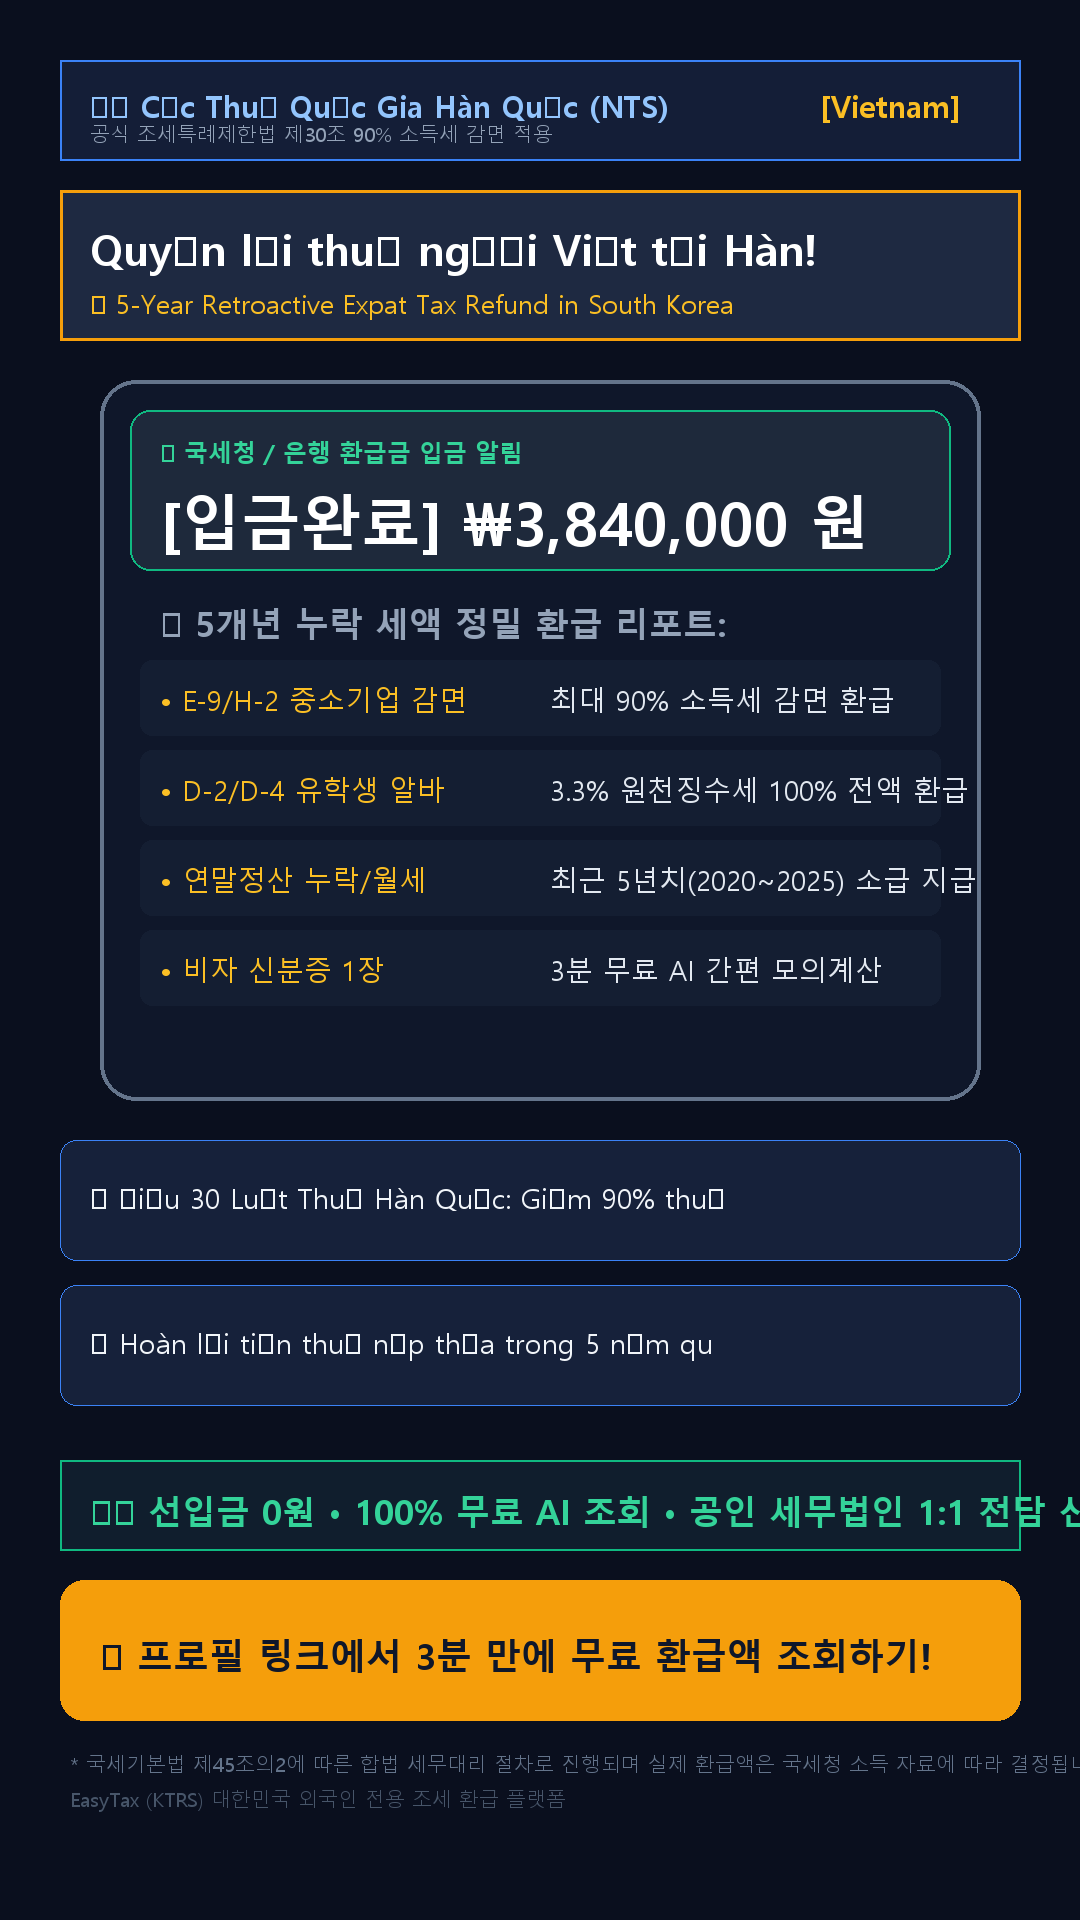
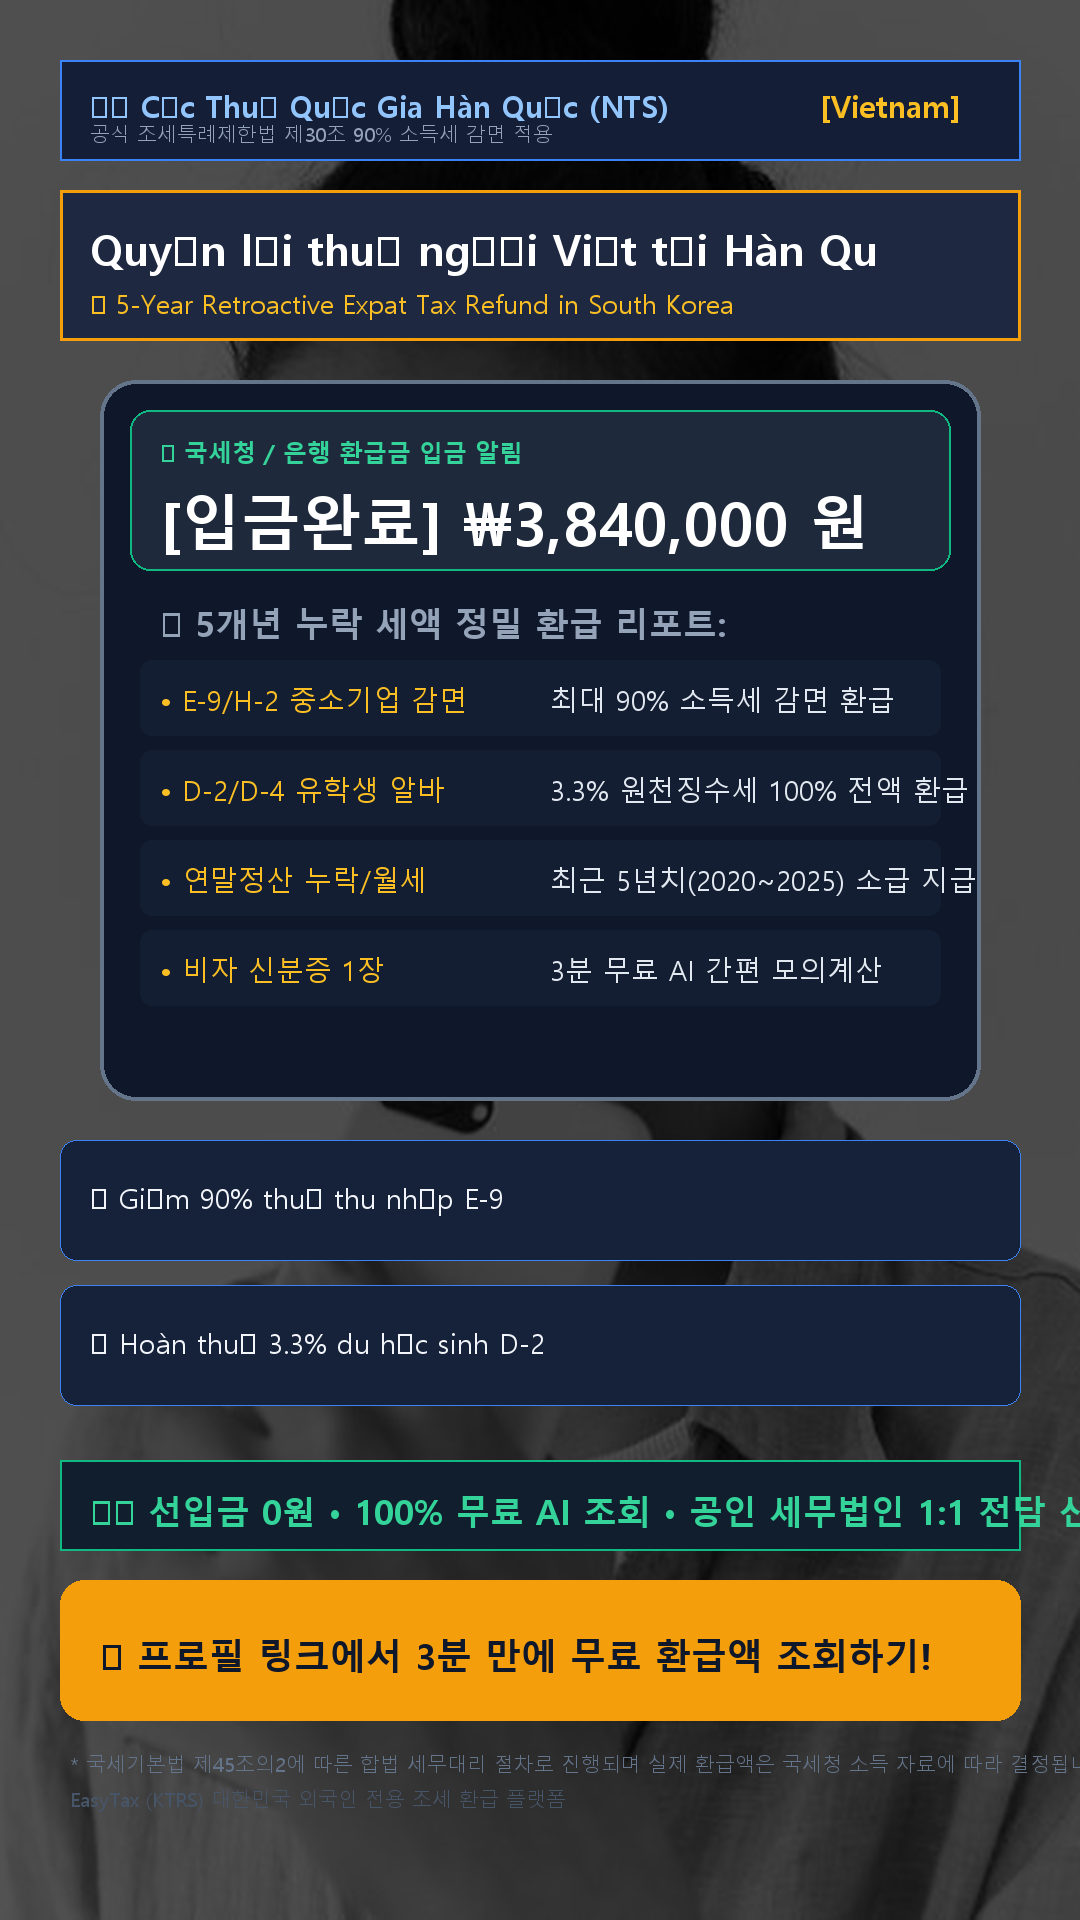
Feature: Integrate official Pexels Stock Photo API for live 17-language authentic expat workforce and smartphone mockup vertical backgrounds

diff --git a/kmarket-marketing-engine/core/pexels_client.py b/kmarket-marketing-engine/core/pexels_client.py
@@ -1,0 +1,175 @@
+"""
+PexelsClient - Pexels 공식 API 연동 17개국 고화질 세로형(9:16) 실사/목업 이미지 공급기
+- 언어/국가별 최적 실사 키워드 자동 매핑
+- 스마트폰 목업, 통장 확인, 실제 다국적 인물 고화질 사진 실시간 다운로드 & 캐싱
+"""
+
+import json
+import logging
+import urllib.request
+import io
+from pathlib import Path
+from typing import Optional, List, Dict, Any
+from PIL import Image
+from config import PEXELS_API_KEY, DATA_DIR
+
+logger = logging.getLogger("PexelsClient")
+
+# 🎯 17개국 언어별 Pexels 최적 검색 쿼리 매핑
+PEXELS_QUERIES_BY_LANG: Dict[str, List[str]] = {
+    "vi": [
+        "vietnamese person smartphone",
+        "southeast asian student phone",
+        "vietnamese worker smiling",
+        "asian person holding phone vertical"
+    ],
+    "uz": [
+        "central asian man smartphone",
+        "young male worker industrial",
+        "person holding smartphone table",
+        "office worker calculator"
+    ],
+    "zh": [
+        "asian student library smartphone",
+        "chinese young professional phone",
+        "asian person checking mobile banking",
+        "modern asian youth phone"
+    ],
+    "en": [
+        "international student campus smartphone",
+        "person checking bank app phone",
+        "phone screen mockup hand vertical",
+        "young professional laptop coffee"
+    ],
+    "mn": [
+        "asian young adult phone winter",
+        "person holding smartphone mockup",
+        "asian student modern casual",
+        "office desk calculator phone"
+    ],
+    "ru": [
+        "person checking finances phone",
+        "young professional office mobile",
+        "calculator tax documents table",
+        "hand holding smartphone vertical"
+    ],
+    "th": [
+        "thai young adult smartphone",
+        "southeast asian person mobile app",
+        "young worker factory smiling",
+        "phone screen vertical mockup"
+    ],
+    "id": [
+        "indonesian student smartphone",
+        "southeast asian worker mobile",
+        "person holding phone vertical desk",
+        "checking mobile banking phone"
+    ],
+    "ne": [
+        "south asian young man phone",
+        "worker factory smartphone",
+        "person holding phone vertical",
+        "calculating tax finance papers"
+    ],
+    "km": [
+        "southeast asian worker smiling phone",
+        "person holding smartphone vertical",
+        "young adult checking mobile screen"
+    ],
+    "tl": [
+        "filipino student smartphone",
+        "young professional smiling phone",
+        "hand holding phone screen mockup"
+    ],
+    "my": [
+        "southeast asian student mobile",
+        "young worker checking smartphone"
+    ],
+    "bn": [
+        "south asian researcher smartphone",
+        "young man checking phone banking"
+    ],
+    "ja": [
+        "japanese student smartphone clean",
+        "asian professional checking phone"
+    ],
+    "es": [
+        "hispanic student smartphone campus",
+        "young person holding phone vertical"
+    ],
+    "ar": [
+        "middle eastern student smartphone",
+        "person checking finances phone"
+    ],
+    "ko": [
+        "korean student smartphone mockup",
+        "checking mobile app smartphone hand",
+        "desk calculator finance documents"
+    ]
+}
+
+
+class PexelsClient:
+    """
+    📸 Pexels 고화질 세로형(9:16) 실사 사진 공급 클라이언트
+    """
+    def __init__(self, api_key: Optional[str] = None):
+        self.api_key = api_key or PEXELS_API_KEY
+        self.cache_dir = DATA_DIR / "pexels_cache"
+        self.cache_dir.mkdir(parents=True, exist_ok=True)
+        self._memory_cache: Dict[str, Image.Image] = {}
+
+    def fetch_portrait_photo(self, query: str = "person smartphone vertical", page: int = 1) -> Optional[Image.Image]:
+        """주어진 검색어로 Pexels에서 세로형(portrait) 고화질 사진 1장 다운로드"""
+        if not self.api_key:
+            logger.warning("Pexels API 키가 설정되지 않았습니다.")
+            return None
+
+        # 캐시 확인
+        cache_key = f"{query}_{page}".replace(" ", "_").lower()
+        if cache_key in self._memory_cache:
+            return self._memory_cache[cache_key].copy()
+
+        cached_file = self.cache_dir / f"{cache_key}.jpg"
+        if cached_file.exists():
+            try:
+                img = Image.open(cached_file).convert("RGB")
+                self._memory_cache[cache_key] = img
+                return img.copy()
+            except Exception:
+                pass
+
+        url = f"https://api.pexels.com/v1/search?query={urllib.parse.quote(query)}&orientation=portrait&per_page=5&page={page}"
+        req = urllib.request.Request(url, headers={
+            "Authorization": self.api_key,
+            "User-Agent": "UniversalExpatMarketingEngine/1.0"
+        })
+
+        try:
+            with urllib.request.urlopen(req, timeout=8) as resp:
+                data = json.loads(resp.read().decode("utf-8"))
+                photos = data.get("photos", [])
+                if photos:
+                    # 'large' 또는 'large2x' 고화질 URL 선택
+                    photo_url = photos[0].get("src", {}).get("large") or photos[0].get("src", {}).get("medium")
+                    if photo_url:
+                        img_req = urllib.request.Request(photo_url, headers={"User-Agent": "Mozilla/5.0"})
+                        with urllib.request.urlopen(img_req, timeout=10) as img_resp:
+                            img_bytes = img_resp.read()
+                            with open(cached_file, "wb") as f:
+                                f.write(img_bytes)
+                            img = Image.open(io.BytesIO(img_bytes)).convert("RGB")
+                            self._memory_cache[cache_key] = img
+                            logger.info(f"✅ Pexels 고화질 실사 로드 성공 [{query}]: {cached_file.name}")
+                            return img.copy()
+        except Exception as e:
+            logger.warning(f"Pexels API 호출 실패 ({query}): {e}")
+
+        return None
+
+    def fetch_photo_for_lang(self, lang: str = "vi", service_id: str = "easytax") -> Optional[Image.Image]:
+        """언어 및 서비스에 최적화된 고화질 Pexels 실사 사진 1장 획득"""
+        import random
+        queries = PEXELS_QUERIES_BY_LANG.get(lang, PEXELS_QUERIES_BY_LANG["en"])
+        query = random.choice(queries)
+        return self.fetch_portrait_photo(query=query, page=random.randint(1, 3))

diff --git a/kmarket-marketing-engine/core/visual_safety_engine.py b/kmarket-marketing-engine/core/visual_safety_engine.py
@@ -8,9 +8,9 @@ VisualSafetyEngine - AI 기괴함/환각 차단 & 17개국 인종/국적 일치 
 import logging
 import math
 from pathlib import Path
-from typing import Dict, Any, List, Optional
-from PIL import Image, ImageDraw, ImageFont
+from PIL import Image, ImageDraw, ImageFont, ImageEnhance
 from config import BASE_DIR, ASSETS_DIR, DATA_DIR, LANGUAGES
+from core.pexels_client import PexelsClient
 
 logger = logging.getLogger("VisualSafetyEngine")
 
@@ -174,6 +174,7 @@ class VisualSafetyEngine:
         # 17개국 에셋 디렉토리 격리 구조 보장
         self.assets_dir = ASSETS_DIR
         self._ensure_asset_folders()
+        self.pexels_client = PexelsClient()
 
     def _ensure_asset_folders(self):
         """17개국별 격리된 에셋 폴더 자동 생성"""
@@ -201,8 +202,18 @@ class VisualSafetyEngine:
         - 실시간 환급액 카운팅 박스 & 공인 세무대리 인증 뱃지 탑재
         """
         W, H = 1080, 1920
-        # 모던 다크 네이비 프리미엄 배경
-        img = Image.new("RGB", (W, H), color=(10, 15, 30))
+        # 1. Pexels에서 대상 언어/국적에 맞는 100% 실사 고화질 배경 가져오기
+        real_bg = self.pexels_client.fetch_photo_for_lang(lang=lang, service_id="easytax")
+        if real_bg:
+            # 고화질 실사 사진을 1080x1920으로 리사이즈 및 다크 오버레이 (가독성 확보)
+            img = real_bg.resize((W, H), Image.Resampling.LANCZOS)
+            # 어둡게 조정하여 텍스트/UI 강조 (밝기 35%)
+            enhancer = ImageEnhance.Brightness(img)
+            img = enhancer.enhance(0.35)
+        else:
+            # 모던 다크 네이비 프리미엄 배경 (폴백)
+            img = Image.new("RGB", (W, H), color=(10, 15, 30))
+
         draw = ImageDraw.Draw(img)
 
         # 폰트 세팅

diff --git a/kmarket-marketing-engine/config.py b/kmarket-marketing-engine/config.py
@@ -190,6 +190,9 @@ GEMINI_API_KEY_KMARKET = os.getenv("GEMINI_API_KEY_KMARKET", GEMINI_API_KEY)
 SUPABASE_URL = os.getenv("SUPABASE_URL", "")
 SUPABASE_KEY = os.getenv("SUPABASE_KEY", "")
 
+# Pexels Stock Photo API Key
+PEXELS_API_KEY = os.getenv("PEXELS_API_KEY", "")
+
 # Telegram Bot
 TELEGRAM_BOT_TOKEN = os.getenv("TELEGRAM_BOT_TOKEN", "")
 TELEGRAM_CHAT_ID = os.getenv("TELEGRAM_CHAT_ID", "")
